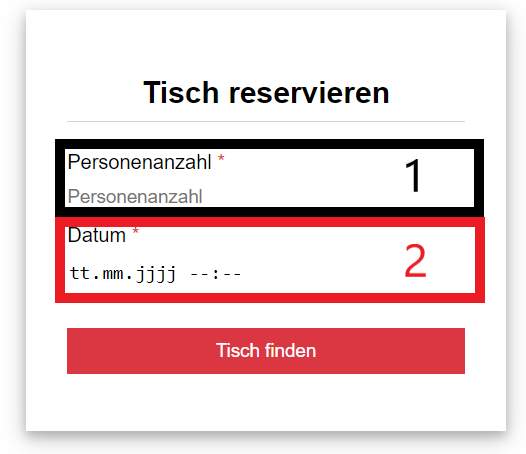
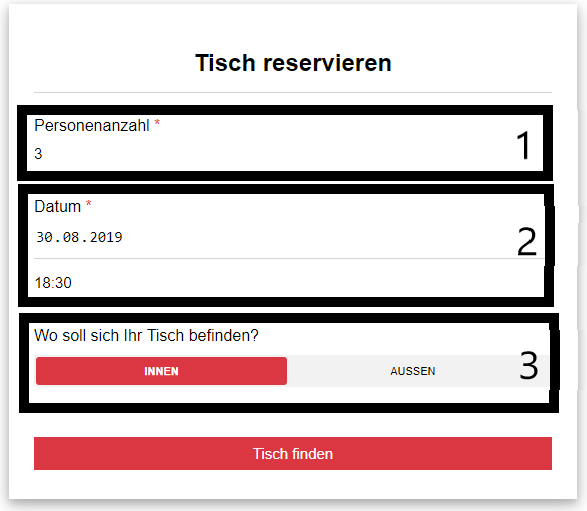
changed documentation

diff --git a/docs/features/manage reservations/add reservation (frontend).md b/docs/features/manage reservations/add reservation (frontend).md
@@ -8,7 +8,7 @@ In the input-form, you can always go back by pushing the "zurück"-Button. Items
 
 ## 1 - Step One
 
-In this step, you have to enter how many seats (1) you need and when (2) you want to reserve for. To do so you have to input the Number of Persons and the Date.
+In this step, you have to enter how many seats (1) you need, when (2) you want to reserve for and if the table should be inside or outside. To do so you have to input the Number of Persons, the Date and the location.
 
 !["title"](./../../assets/stepone.png)
 
@@ -18,13 +18,13 @@ InputFormDate.vue InputFormNumberOfPersons.vue
 
 ## 2 - Step Two
 
-At the second step, you can choose between different possible tables. We filter the tables before they appear on the site, so you can only choose tables which are possible for the number of people and the time.
+At the second step, you can choose between different possible tables. We filter the tables before they appear on the site, so you can only choose tables which are possible for the number of people and the time. The green ones are the available seats, the blue ones the ones wich you picked. The red ones are not vailable
 
-!["title"](./../../assets/step2.1.png)
+!["title"](./../../assets/steptwodesktop.png)
 
-When you want to reserve more than one table, you have the option to add a table (2). You can reserve up to three tables.
+On mobile devices you can choose betwenn suggested combinations.
 
-!["title"](./../../assets/step2.2.png)
+!["title"](./../../assets/steptwomobile.png)
 
 ### Component used
 

diff --git a/docs/features/manage tables/add table.md b/docs/features/manage tables/add table.md
@@ -1,20 +1,19 @@
 # Add Table
 
-## Get to the Plugin
+## There are two possibilities to get to the "Create Table" - Page
+
+### 1. without graphic
 
 First enter the wordpress dashboard. When you have done that, you will find the item "Tische verwalten" at the bottom left.
 
 ![menu](./../../assets/tische-verwalten.png)
 
-## There are two possibilities to get to the "Create Table" - Page
-
-### 1. directly in the menu
+or
 
 there is a direct link under the menuitem "Tische verwalten"
 
 ![menu](./../../assets/newtable1.png)
 
-### 2. indirectly through "Tische verwalten" - Page
 
 There is a button on the top of the page.
 
@@ -25,3 +24,16 @@ There is a button on the top of the page.
 When you have used one of the two possibilities to get to the "Create Table" - Page you will get to a form. Fill in all your data and click "Speichern" (1) to save the table.
 
 ![menu](./../../assets/neuertisch3.png)
+
+### 2. with graphics
+
+To add a table with graphics you have to click the menulink "Tische graphisch verwalten" (1) you should get a overview of your room and the tables with its positions. 
+
+![menu](./../../assets/addtable.png)
+
+When you press "Tisch hinzufügen" (2) following windows will appear. The only difference between the step without graphic is that you have to define the position of the table. You can do that with pressing the button "Positionieren" (1) and drawing a rect. Then press save ("Speichern") and the table will appear in the overview and the frontend.
+
+![menu](./../../assets/addtabletwo.png)
+
+
+

diff --git a/docs/features/manage tables/edit table.md b/docs/features/manage tables/edit table.md
@@ -4,7 +4,7 @@
 
 You can find the tutorial [here](https://github.com/towa-digital/intern-table-reservation/blob/master/docs/features/manage%20tables/add%20table.md)
 
-## Update Table
+## Update Table without graphics
 
 Once you have clicked on the plugin, a page with a list of all tables appears. The only thing you have to do to edit the table, is to click on the little pencil icon (1) on the right hand side.
 
@@ -13,3 +13,11 @@ Once you have clicked on the plugin, a page with a list of all tables appears. T
 Once you have clicked on this icon you can change the data. Just tip in the new data and click on the save icon (1) on the right side. When you want to cancel just click the x (2).
 
 ![menu](./../../assets/updatetable2.png)
+
+## Update Table with graphics
+
+You can also edit a table by clicking on it in the graphic overview. Following window will appear.
+
+![menu](./../../assets/edittablegraphic.png)
+
+You can change the default setting with updating the input fields and press "Speichern" but you can also change the tbles position with pressing "neu positionieren" (1). YOu can draw a new rect like you did when you created the table press "Übernehmen" and then "Speichern".
